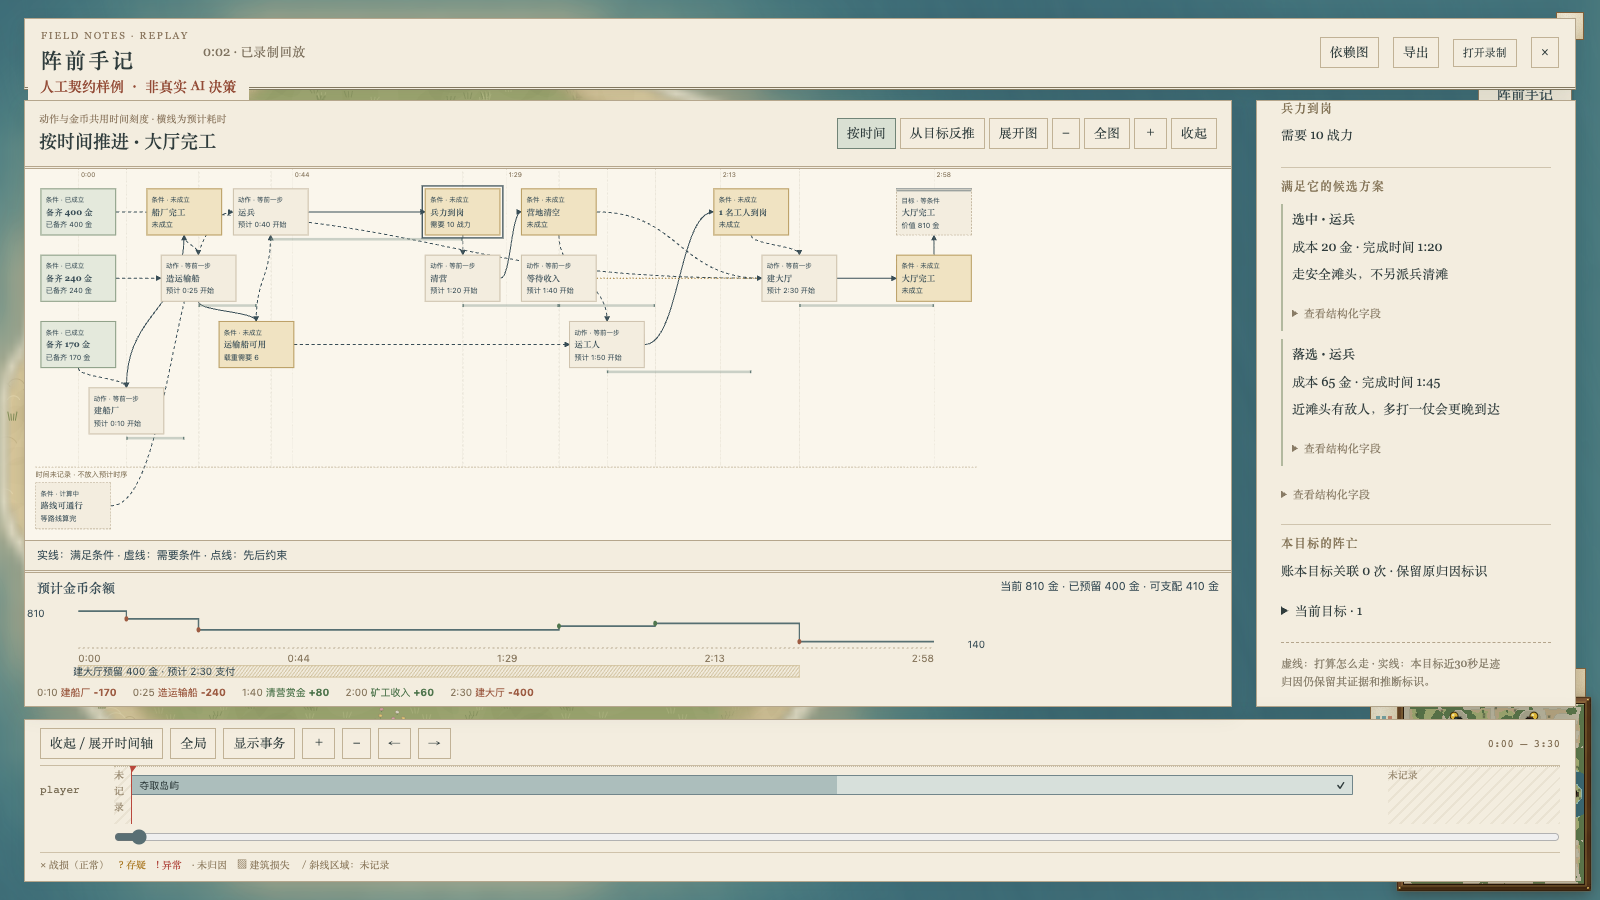
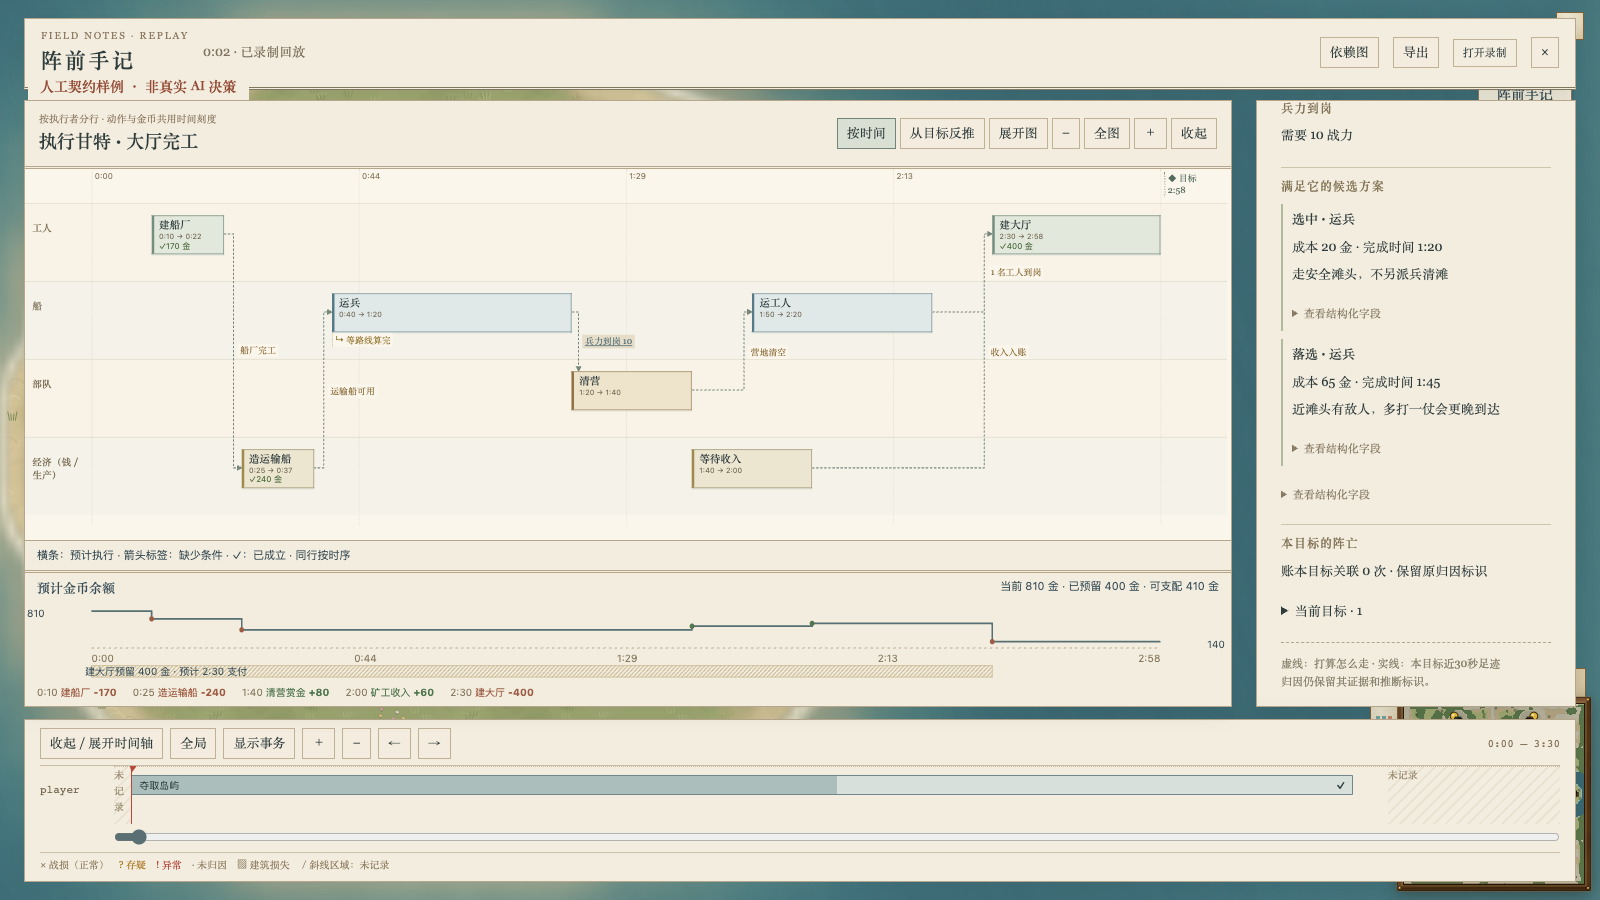
docs: capture executor gantt plans and dependency labels on mac1

diff --git a/docs/ai/plan-viz/index.html b/docs/ai/plan-viz/index.html
@@ -1,1 +1,1 @@
-<!doctype html><html lang="zh-CN"><head><meta charset="utf-8"><meta name="viewport" content="width=device-width,initial-scale=1"><title>阵前手记 · 计划依赖图样稿</title><link rel="icon" href="data:,"><link rel="stylesheet" href="styles.css"><style>.chooser{max-width:1360px;margin:auto;padding:48px 40px}.chooser h1{margin:12px 0 16px}.intro{max-width:850px;font-size:15px;color:var(--muted)}.choices{display:grid;grid-template-columns:1fr 1fr;gap:28px;margin-top:30px}.choice{display:block;background:var(--paper-light);border:1px solid var(--ink);color:var(--ink);text-decoration:none;box-shadow:4px 4px 0 var(--shade)}.choice img{display:block;width:100%;height:410px;object-fit:cover;object-position:top;border-bottom:1px solid var(--line)}.choice .copy{padding:20px 23px}.choice h2{font-size:24px;margin-bottom:10px}.choice p{color:var(--muted);margin:8px 0}.choice .open{display:inline-block;border-bottom:1px solid var(--brass);margin-top:12px}.source-note{margin-top:28px;padding-top:20px;border-top:1px solid var(--line);color:var(--muted)}@media(max-width:820px){.chooser{padding:24px}.choices{grid-template-columns:1fr}.choice img{height:320px}}</style></head><body><main class="chooser"><div class="eyebrow">Sketch RTS / 墨线战图 / 目标依赖图样稿</div><h1>沿着依赖，看见打算怎样成为结果</h1><p class="intro">沿时间查看条件与动作，同时核对金币和结果；也可切换从目标反推。新版用公开第 3 题“从零造海军”的人工数据展示分叉、汇合与大厅预留；下方保留历史双岸实战样稿。</p><a class="choice" href="goal-navy.html" style="margin-top:25px"><img src="goal-navy-layout.png" alt="人工样稿：目标、未成立的条件、动作方案、执行和结果的依赖图" style="height:auto;max-height:650px;object-fit:cover;object-position:top"><div class="copy"><div class="eyebrow">III / Goal Dependency / 人工公开题 3</div><h2>从零造海军</h2><p>默认按时间从左到右，动作与金币带垂直对齐，船与金币分叉汇合；先支付船厂和船，再获赏金与收入，大厅保留 400 金。节点和侧栏说人话，内部字段可展开。</p><span class="open">打开目标依赖图样稿 →</span></div></a><a class="choice" href="timeline.html" style="margin-top:25px"><img src="preview-timeline-overview.webp" alt="第二版：战图、意图与结果面板，以及每个 AI 的目标时间泳道" style="height:auto;max-height:650px;object-fit:cover;object-position:top"><div class="copy"><div class="eyebrow">II / Intent and Consequence</div><h2>阵前手记 · 意图与回声</h2><p>真实双岸对局 0–15 分钟，阶段分段、拖选缩放与平移；单机默认关，联机只看自己，赛后回放看全部。</p><span class="open">打开第二版样稿 →</span></div></a><details style="margin-top:30px"><summary>查看第一轮样稿（风格与可见性选项的历史方案）</summary><section class="choices"><a class="choice" href="ink-map.html"><img src="preview-ink.webp" alt="阵前手记：浅色战图，右侧是目标和手记批注"><div class="copy"><div class="eyebrow">01 / Field Atlas</div><h2>阵前手记</h2><p>地图是主角，目标像写在纸边的批注。适合一边看战局，一边理解部队的意图。</p><span class="open">打开这版样稿 →</span></div></a><a class="choice" href="command-desk.html"><img src="preview-desk.webp" alt="将军案卷：深墨题头，左侧目标目录，战图上展开计划树"><div class="copy"><div class="eyebrow">02 / Command Desk</div><h2>将军案卷</h2><p>目标目录与战图并列，计划树像一张展开的军情卷宗。适合追踪原因、任务交接与变化。</p><span class="open">打开这版样稿 →</span></div></a></section></details><div class="source-note"><p>历史双岸记录：3:59–6:07 · 扩张闭环与 18 秒受阻；8:01 · 进攻放弃；正常 / 存疑 / 异常与未归因阵亡、建筑损失均可点开。</p><p>历史双岸样稿的地图、任务与变化来自实战记录；新版海军依赖图全部为人工数据，不作为规划器解题或执行证据。</p><p>页面可双击打开，无需联网。目标依赖图消费端已接线，新规划器生产端未启用，#576 保持 draft。</p></div></main></body></html>
+<!doctype html><html lang="zh-CN"><head><meta charset="utf-8"><meta name="viewport" content="width=device-width,initial-scale=1"><title>阵前手记 · 计划依赖图样稿</title><link rel="icon" href="data:,"><link rel="stylesheet" href="styles.css"><style>.chooser{max-width:1360px;margin:auto;padding:48px 40px}.chooser h1{margin:12px 0 16px}.intro{max-width:850px;font-size:15px;color:var(--muted)}.choices{display:grid;grid-template-columns:1fr 1fr;gap:28px;margin-top:30px}.choice{display:block;background:var(--paper-light);border:1px solid var(--ink);color:var(--ink);text-decoration:none;box-shadow:4px 4px 0 var(--shade)}.choice img{display:block;width:100%;height:410px;object-fit:cover;object-position:top;border-bottom:1px solid var(--line)}.choice .copy{padding:20px 23px}.choice h2{font-size:24px;margin-bottom:10px}.choice p{color:var(--muted);margin:8px 0}.choice .open{display:inline-block;border-bottom:1px solid var(--brass);margin-top:12px}.source-note{margin-top:28px;padding-top:20px;border-top:1px solid var(--line);color:var(--muted)}@media(max-width:820px){.chooser{padding:24px}.choices{grid-template-columns:1fr}.choice img{height:320px}}</style></head><body><main class="chooser"><div class="eyebrow">Sketch RTS / 墨线战图 / 目标依赖图样稿</div><h1>沿着依赖，看见打算怎样成为结果</h1><p class="intro">沿时间查看条件与动作，同时核对金币和结果；也可切换从目标反推。新版用公开第 3 题“从零造海军”的人工数据展示分叉、汇合与大厅预留；下方保留历史双岸实战样稿。</p><a class="choice" href="goal-navy.html" style="margin-top:25px"><img src="goal-navy-layout.png" alt="人工样稿：执行者分行、动作横条、依赖标签与金币带" style="height:auto;max-height:650px;object-fit:cover;object-position:top"><div class="copy"><div class="eyebrow">III / Goal Dependency / 人工公开题 3</div><h2>从零造海军</h2><p>工人、船、部队、经济各占一行，动作横条与金币带对齐，依赖箭头说明在等谁；先支付船厂和船，再获赏金与收入，大厅保留 400 金。节点和侧栏说人话，内部字段可展开。</p><span class="open">打开目标依赖图样稿 →</span></div></a><a class="choice" href="timeline.html" style="margin-top:25px"><img src="preview-timeline-overview.webp" alt="第二版：战图、意图与结果面板，以及每个 AI 的目标时间泳道" style="height:auto;max-height:650px;object-fit:cover;object-position:top"><div class="copy"><div class="eyebrow">II / Intent and Consequence</div><h2>阵前手记 · 意图与回声</h2><p>真实双岸对局 0–15 分钟，阶段分段、拖选缩放与平移；单机默认关，联机只看自己，赛后回放看全部。</p><span class="open">打开第二版样稿 →</span></div></a><details style="margin-top:30px"><summary>查看第一轮样稿（风格与可见性选项的历史方案）</summary><section class="choices"><a class="choice" href="ink-map.html"><img src="preview-ink.webp" alt="阵前手记：浅色战图，右侧是目标和手记批注"><div class="copy"><div class="eyebrow">01 / Field Atlas</div><h2>阵前手记</h2><p>地图是主角，目标像写在纸边的批注。适合一边看战局，一边理解部队的意图。</p><span class="open">打开这版样稿 →</span></div></a><a class="choice" href="command-desk.html"><img src="preview-desk.webp" alt="将军案卷：深墨题头，左侧目标目录，战图上展开计划树"><div class="copy"><div class="eyebrow">02 / Command Desk</div><h2>将军案卷</h2><p>目标目录与战图并列，计划树像一张展开的军情卷宗。适合追踪原因、任务交接与变化。</p><span class="open">打开这版样稿 →</span></div></a></section></details><div class="source-note"><p>历史双岸记录：3:59–6:07 · 扩张闭环与 18 秒受阻；8:01 · 进攻放弃；正常 / 存疑 / 异常与未归因阵亡、建筑损失均可点开。</p><p>历史双岸样稿的地图、任务与变化来自实战记录；新版海军依赖图全部为人工数据，不作为规划器解题或执行证据。</p><p>页面可双击打开，无需联网。目标依赖图消费端已接线，新规划器生产端未启用，#576 保持 draft。</p></div></main></body></html>

diff --git a/docs/ai/plan-viz/goal-consumer.zh.md b/docs/ai/plan-viz/goal-consumer.zh.md
@@ -2,7 +2,7 @@
 
 #576 保持 draft，固定消费契约为 `feat/strategy-goal-planner` 的 `8afe8a35`。入口是 `AiPlanTrace.goalPlanner?: GoalPlannerOutput`；不调用规划器、事实源或动作 provider，不生成命令、兵力或预算。
 
-当前样稿：[从零造海军，双击打开](goal-navy.html)。它与游戏叠加层使用相同的渲染函数，由 `scripts/export-goal-plan-mockup.ts` 导出，单文件、无需联网。默认按时间推进，点击节点后打开侧栏，支持缩放、查看原始字段和切换时间；也可切换“从目标反推”。
+当前样稿：[从零造海军，双击打开](goal-navy.html)。它与游戏叠加层使用相同的渲染函数，由 `scripts/export-goal-plan-mockup.ts` 导出，单文件、无需联网。默认是带依赖箭头的执行甘特图，点击动作条或条件标签打开侧栏，支持缩放、查看原始字段和切换时间；也可切换“从目标反推”。
 
 ## 公开第 3 题的人工展示
 
@@ -16,11 +16,13 @@
 
 ## 阅读顺序与原始记录
 
-默认从左到右按时间排：最早动作在左，目标完成在右。动作中心对齐预计开始时刻，节点下的横线延伸至预计结束；支出、赏金与收入事件共用同一时间坐标。缩放和横向滚动时，图与金币带同步，竖向可对上哪一步花钱、哪一步入账。实线表示满足条件，虚线表示需要条件，点线表示先后约束；分叉和共享条件继续保留。
+默认按工人、船、部队、经济（钱 / 生产）分行。动作横条从预计开始延伸到预计完成，两端与金币收支共用时间坐标；缩放和横向滚动保持同步。同类同时执行的动作在这一类内分轨，保留各自起止时间。行名按原子动作声明分类，不把计划中的执行者冒充已经派出的真实单位。
 
-条件优先读取 availableTick，否则使用已观测时刻或所选生产动作声明的 start / finish / offset 时刻。缺时间的动作、条件及目标单放“时间未记录”，不拿零点或 deadline 补出 ETA。多个生产者缺任意一个 ETA 时保持未知。
+时间视图不再画独立条件方块：缺的条件写在跨行直角依赖箭头上，例如“兵力到岗 10”；没有已记录生产动作的条件直接标在动作条旁，例如“等路线算完”。已经成立的条件贴在横条上，例如“✓400 金”。同行依赖按时间顺序读，不另画箭头；间接依赖经已有路径可达时省略重复连线，原始前置与边全部保留在侧栏和结构化记录中。完整原始记录仍可逐项核对。
 
-“从目标反推”切换保留目标 → 条件 → 动作 → 前置的阅读顺序，循环记录用前向引用叶子保留。两种模式都只投影视图，不改原始边、ID、方向或计划数据；结构化详情保留原记录。布局限制 200 个事实与动作。
+缺动作时间时列在“时间未记录”，不拿零点或 deadline 补 ETA。条件和目标的预计生效时刻保留 availableTick 与 start / finish / offset 语义；多个贡献者缺任意一个 ETA 时保持未知。
+
+“从目标反推”视图保留目标 → 条件 → 动作 → 前置的方块图，循环用前向引用叶子保留。三个样例时刻（50 / 2100 / 3600）的反推 HTML 与调整前逐字节一致。两种模式都只投影视图，不改原始边、ID、方向或计划数据；时间视图最多展示 200 个动作，反推视图最多 200 个事实与动作。
 
 节点和侧栏用中文说明条件、动作、当前进度、预算及结果。pending 路线显示“等路线算完”；缺少执行者、时刻或数值时显示“—”。内部 ID、requestId、执行器代码、原生证据及完整声明收进结构化详情。候选方案仍保留选中/落选、成本、完成时间和原因。
 
@@ -34,7 +36,7 @@
 
 ## 验证
 
-代码源 `d5ced6379e9010792129c3bf6b4e707b47de124f`：根/CLI tsc 均退出 0，10 文件 54 项通过。新增检查包括默认按时间排序、动作中心与金币事件共用坐标、未知 ETA 不补值、start / finish / offset 生效时刻、分叉与汇合、反推切换、原生边不可变、循环有界、先花后挣及 400 金保护。现有通路回归仍检查零构造、私有过滤、不可变回放、worker、观察开关前后逐命令和逐 tick 哈希一致。
+代码源 `45f00a38c3fba73521fcabfe30c7a4a91753e258`：根/CLI tsc 均退出 0，10 文件 56 项通过。新增检查包括执行者分行、动作起止点与金币事件共用坐标、同行无箭头、重复间接连线省略、并行动作不重叠、未知 ETA 不补值、start / finish / offset 生效时刻、反推切换、原生记录不可变及 400 金保护。现有通路回归仍检查零构造、私有过滤、不可变回放、worker、观察开关前后逐命令和逐 tick 哈希一致。
 
 ```sh
 npx tsc --noEmit -p .
@@ -45,11 +47,11 @@ SKETCH_MACHINES=~/.config/sketch/machines-camps.json bin/sketch yatu ai-goal-pla
 SKETCH_MACHINES=~/.config/sketch/machines-camps.json bin/sketch yatu ai-goal-navy-mockup --ref HEAD --on mac1 --locale zh-CN --json
 ```
 
-mac1 使用真实 Metal GPU。游戏场景实际点击候选和预算、鼠标拖到清营后/完工/未记录时段；独立 HTML 从 file 打开并重开。两处均测量 0:10 / 0:25 / 2:30 三次支出的节点中心与金币标记，默认、视图切换、放大并横向滚动 190px 后最大误差小于 0.02 CSS px；候选、预算、结果及未记录处理保持原样。原图逐张查看；SHA256、实际拖动 tick 和来源见 [goal-consumer-capture.json](goal-consumer-capture.json)。本轮不跑胜率 benchmark；未把人工场景当作真实 AI 或性能验收，也未新增完整 src 测试。
+mac1 使用真实 Metal GPU。游戏场景实际点击候选和预算、鼠标拖到清营后/完工/未记录时段；独立 HTML 从 file 打开并重开。两处均测量 0:10 / 0:25 / 2:30 三次支出的横条起点，以及 1:40 赏金 / 2:00 收入的横条终点与金币标记，覆盖默认、视图切换、放大并横向滚动 190px，最大误差小于 0.04 CSS px；候选、预算、结果及未记录处理保持原样。一次鼠标拖动未命中完工区间，同一源单独复测后 tick 2160 / 3650 / 4000 均准确落位；失败尝试也保留指针。8 张最终原图逐张查看；SHA256、实际拖动 tick 和来源见 [goal-consumer-capture.json](goal-consumer-capture.json)。本轮不跑胜率 benchmark；未把人工场景当作真实 AI 或性能验收，也未新增完整 src 测试。
 
-CLI 增量复制会漏带 docs 文件，因此独立页面用该源的 git archive 放入 mac1 的独立目录 `runs/camps-navy-preview-d5ced637`；没有覆盖版本缓存。完整副本可直接运行常规命令。
+CLI 增量复制会漏带 docs 文件，因此独立页面用该源的 git archive 放入 mac1 的独立目录 `runs/camps-navy-preview-45f00a38`；没有覆盖版本缓存。完整副本可直接运行常规命令。
 
-![人工样稿：完整分叉与金币预留](goal-navy-layout.png)
+![人工样稿：执行甘特与金币预留](goal-navy-layout.png)
 ![游戏内人工样例：选中和落选的运兵方案](goal-contract-alternatives.png)
 ![游戏内人工样例：执行空缺与受保护的大厅预算](goal-contract-execution.png)
 
